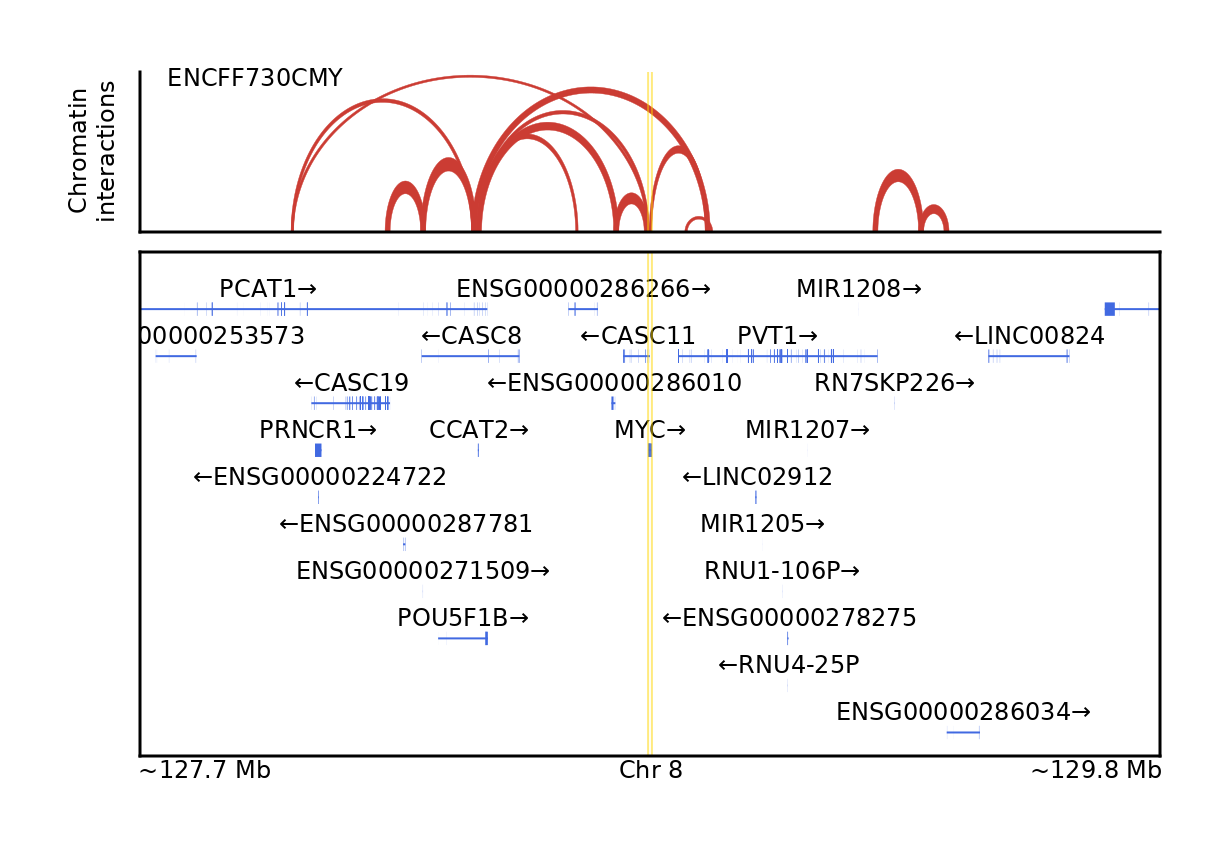
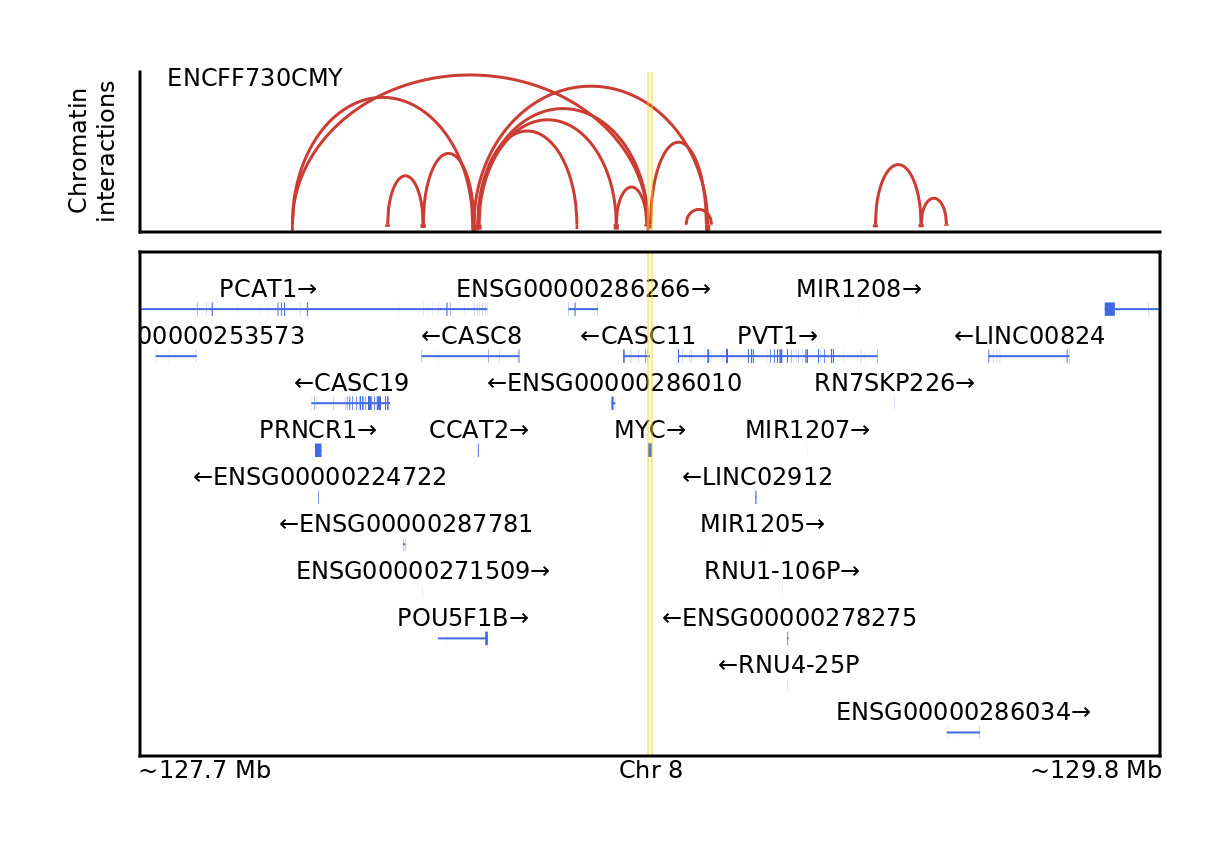
Draw arcs as lines, with paired ends as rectangles
The ellipseband! function was removed and replaced with drawloop!
function, which draws a single line (instead of a thick arc) from the
midpoint of each paired end. The paired ends have rectangles to indicate
the width of each end. The plotloops! function's keyword arguments have
been updated accordingly. Additionally, the length and step keywords for
plotloops! have been removed and replaced with resolution, which will
take in a number of points to draw across the provided range on the
x-axis. The loops will be drawn to a consistent resolution by that
keyword argument. Tests and documentation have been updated, and the
example figure in the README has been removed.

diff --git a/docs/src/examples/loops.md b/docs/src/examples/loops.md
@@ -41,9 +41,9 @@ gencode = Arrow.Table("data/gencode/$(splitext(basename(url))[1]).arrow")|> Data
 gene = "MYC"
 chr, start, stop = GeneticsMakie.findgene(gene, gencode)
 ranges = [start - 1e6, stop + 1e6]
-
 n = length(dfs)
 titles = ["ENCFF730CMY"]
+
 f = Figure(resolution = (306, 792))
 axs = [Axis(f[i, 1]) for i in 1:(n + 1)]
 for i in 1:n
@@ -66,21 +66,17 @@ f
 ```
 ![](../figs/MYC-loops.png)
 
-We can change the color of the loops using the `color` keyword. Additionally,
-we can add outlines to the loops for visual clarity (useful when viewing large
-ranges).
+We can change the color of the loops using the `colorarc` and `colorend`
+keywords, which color the loops' arcs and paired ends respectively.
+Additionally, we can change the line width of the loops using the `linewidth`
+keyword.
 
 ```julia
-gene = "MYC"
-chr, start, stop = GeneticsMakie.findgene(gene, gencode)
-ranges = [start - 1e6, stop + 1e6]
-
-n = length(dfs)
-titles = ["ENCFF730CMY"]
 f = Figure(resolution = (306, 792))
 axs = [Axis(f[i, 1]) for i in 1:(n + 1)]
 for i in 1:n
-    GeneticsMakie.plotloops!(axs[i], chr, ranges[1], ranges[2], dfs[i]; color = "#CB3C33", outline = true)
+    GeneticsMakie.plotloops!(axs[i], chr, ranges[1], ranges[2], dfs[i];
+    linewidth = 0.75, colorarc = "#CB3C33", colorend = "#CB3C33")
     rowsize!(f.layout, i, 40)
     Label(f[i, 1, Top()], "$(titles[i])", textsize = 6, halign = :left, padding = (7.5, 0, -5, 0))
 end
@@ -108,12 +104,6 @@ _MYC_ gene body and promoter. Additionally, by running
 of the previous full set of loops.
 
 ```julia
-gene = "MYC"
-chr, start, stop = GeneticsMakie.findgene(gene, gencode)
-ranges = [start - 1e6, stop + 1e6]
-
-n = length(dfs)
-titles = ["ENCFF730CMY"]
 f = Figure(resolution = (306, 792))
 axs = [Axis(f[i, 1]) for i in 1:(n + 1)]
 for i in 1:n
@@ -127,7 +117,7 @@ for i in 1:n
                [:chr1, :chr2] => ByRow((cols...) -> all(cols .== chr)),
                [:x1, :x2, :y1, :y2] =>
                ByRow((cols...) -> any(start .< cols .< stop)));
-               color = "#CB3C33", outline = true)
+               colorarc = "#CB3C33", colorend = ("#CB3C33", 0.6))
     rowsize!(f.layout, i, 40)
     Label(f[i, 1, Top()], "$(titles[i])", textsize = 6, halign = :left, padding = (7.5, 0, -5, 0))
 end

diff --git a/README.md b/README.md
@@ -39,10 +39,6 @@ Visualize GWAS results for *KMT2E* locus:
 Visualize GWAS results for *KMT2E* locus with the same reference SNPs for LD:
 <p align="center"><img width="100%" style="border-radius: 5px;" src="figs/KMT2E-locuszoom-index.png"></p>
 
-Visualize long-range DNA interactions, including enhancer promoter loops, for *MYC*
-locus:
-<p align="center"><img width="100%" style="border-radius: 5px;" src="figs/MYC-loops.png"></p>
-
 Visualize Manhattan plot:
 <p align="center"><img width="75%" style="border-radius: 5px;" src="figs/manhattan.png"></p>
 
